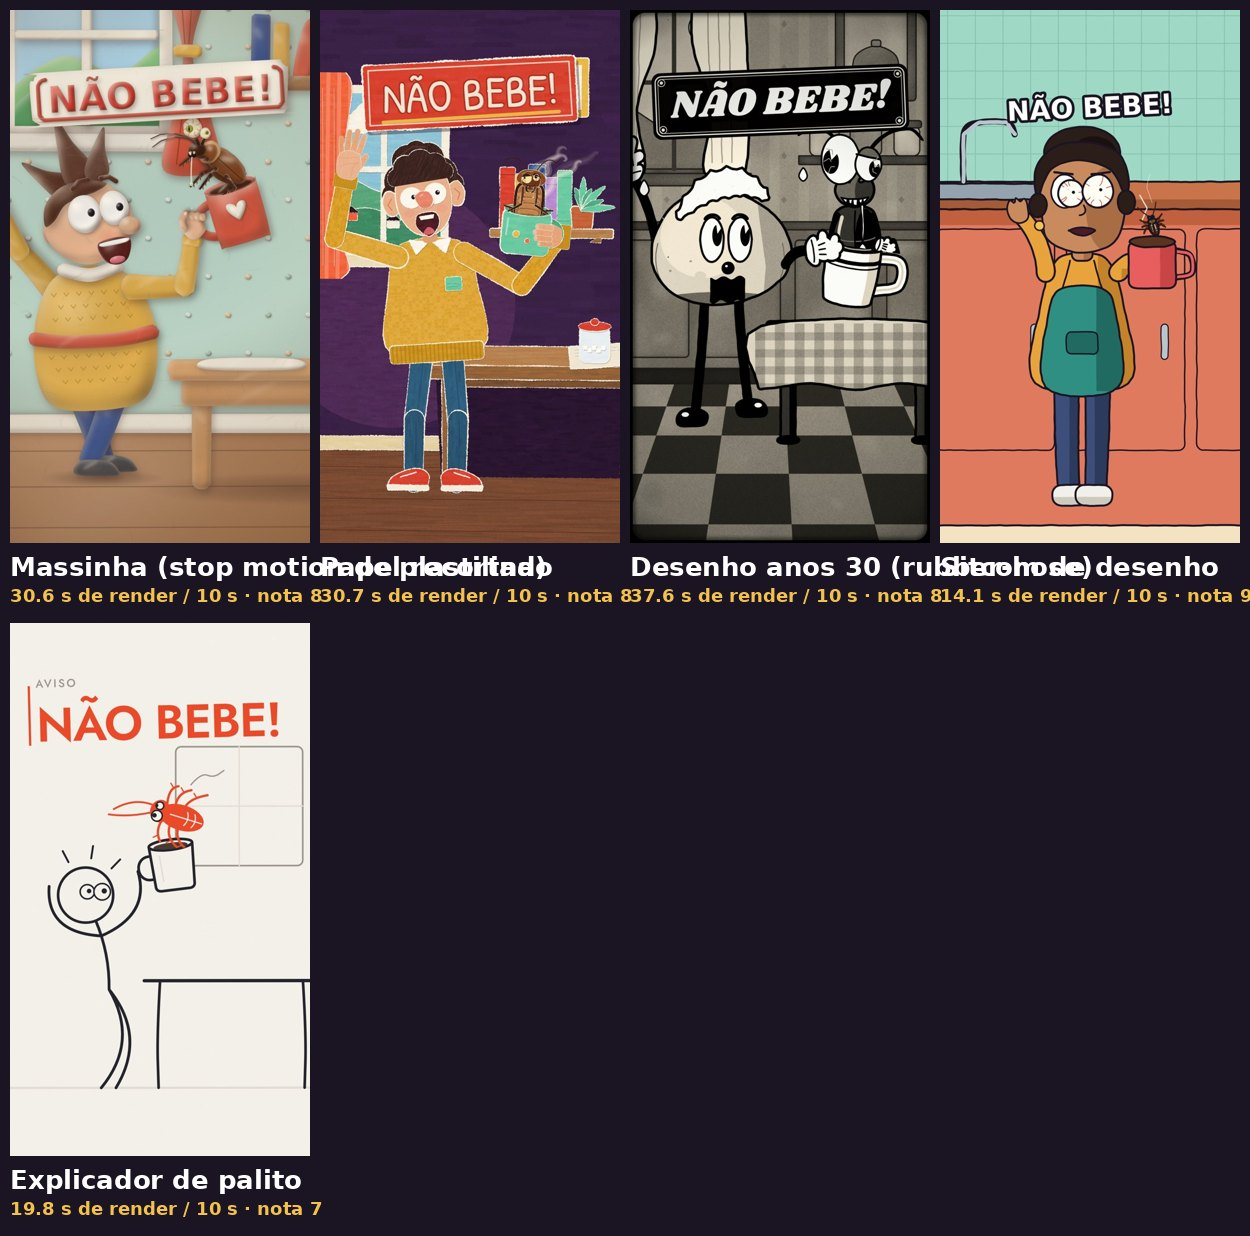
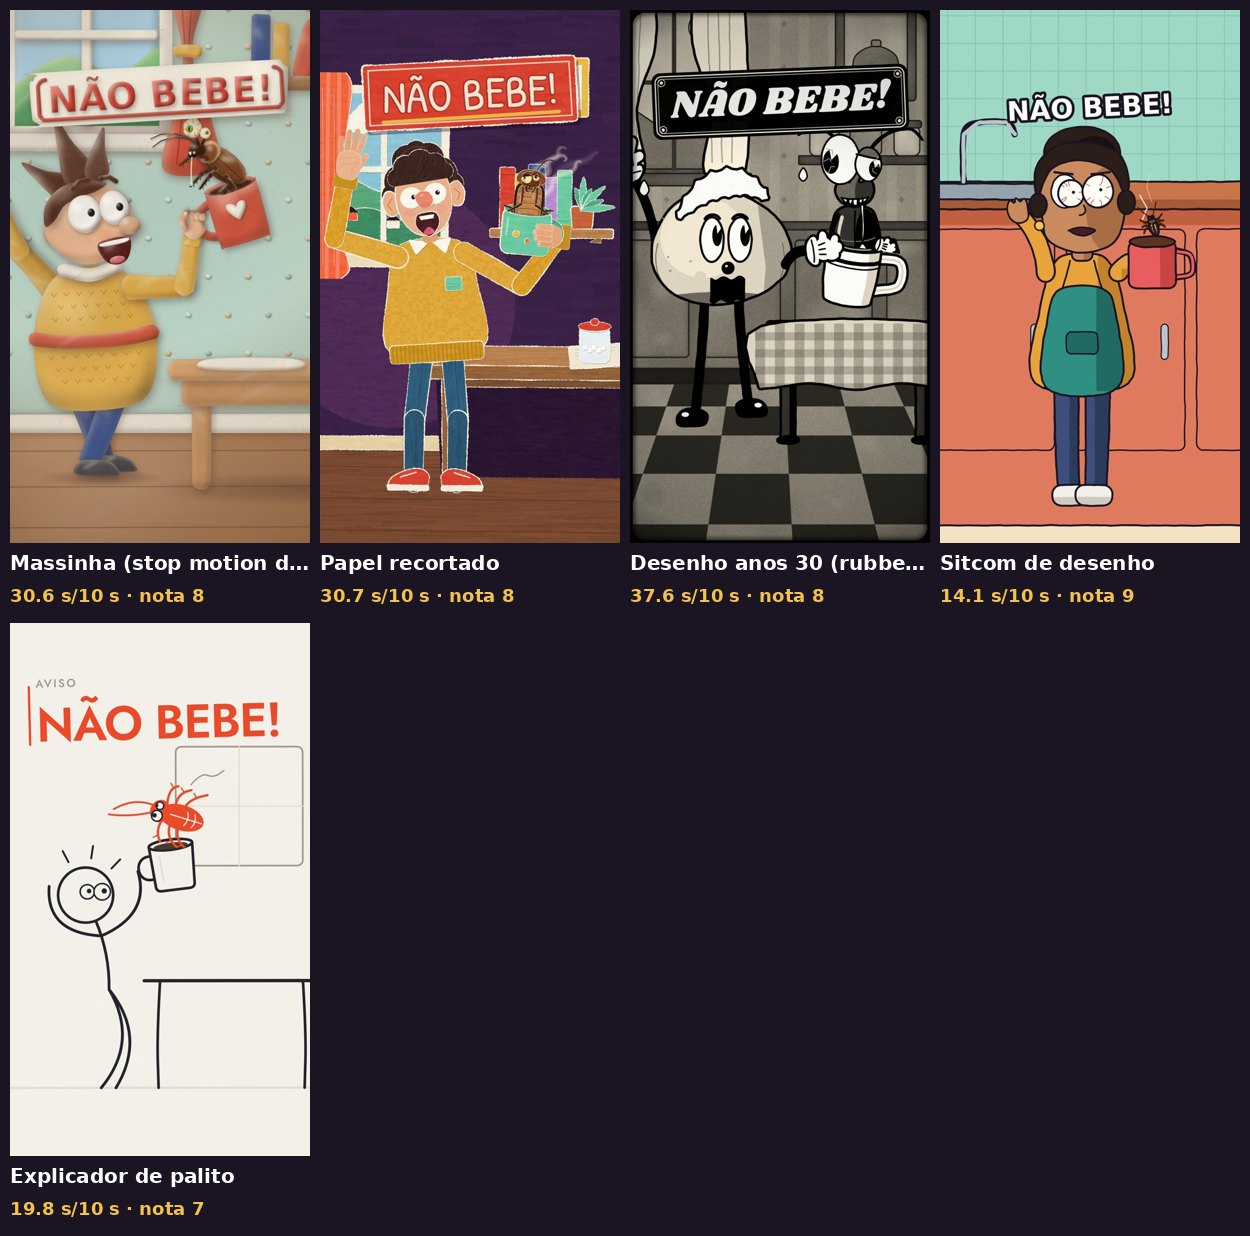
Galeria: rótulos sem sobreposição
Claude-Session: https://claude.ai/code/session_01LTuGap3sh8FKUfM6havPvh

Changed region(s): [[0.0, 0.4304, 1.0, 0.4919], [0.0, 0.9223, 0.2496, 0.9838]]

diff --git a/ferramentas/galeria.py b/ferramentas/galeria.py
@@ -5,7 +5,7 @@ import sys, os, json, glob, subprocess
 from PIL import Image, ImageDraw, ImageFont
 RAIZ = os.path.dirname(os.path.dirname(os.path.abspath(__file__))); os.chdir(RAIZ)
 TIRA = [0, 1.2, 2.4, 3.8, 4.6, 5.5]
-FONTE = ImageFont.truetype("motor/fontes/grossa.ttf", 26)
+FONTE = ImageFont.truetype("motor/fontes/grossa.ttf", 20)
 so = set(sys.argv[1:])
 fichas = []
 for f in sorted(glob.glob("estilos/*/ficha.json")):
@@ -25,8 +25,10 @@ g = Image.new("RGB", (cols * (L + 10) + 10, lin * (A + 80) + 10), "#1b1422"); d 
 for k, j in enumerate(ok):
     x, y = 10 + k % cols * (L + 10), 10 + k // cols * (A + 80)
     g.paste(Image.open(os.path.join(j["_dir"], "poster.jpg")).resize((L, A)), (x, y))
-    d.text((x, y + A + 8), j["nome"], font=FONTE, fill="#ffffff")
-    d.text((x, y + A + 42), f'{j.get("seg_por_10s", "?")} s de render / 10 s · nota {j.get("nota", "?")}', font=ImageFont.truetype("motor/fontes/grossa.ttf", 18), fill="#f2c14e")
+    nome = j["nome"]
+    while d.textlength(nome, font=FONTE) > L and len(nome) > 4: nome = nome[:-2].rstrip() + "…" if not nome.endswith("…") else nome[:-2] + "…"
+    d.text((x, y + A + 8), nome, font=FONTE, fill="#ffffff")
+    d.text((x, y + A + 42), f'{j.get("seg_por_10s", "?")} s/10 s · nota {j.get("nota", "?")}', font=ImageFont.truetype("motor/fontes/grossa.ttf", 18), fill="#f2c14e")
 g.save("galeria.jpg", quality=86)
 # CATALOGO.md
 ln = ["# Catálogo do laboratório", "", "Gerado por `python3 -I ferramentas/galeria.py`. Pôsteres em `galeria.jpg`; tira de 6 quadros em `estilos/<estilo>/tira.jpg`;",
